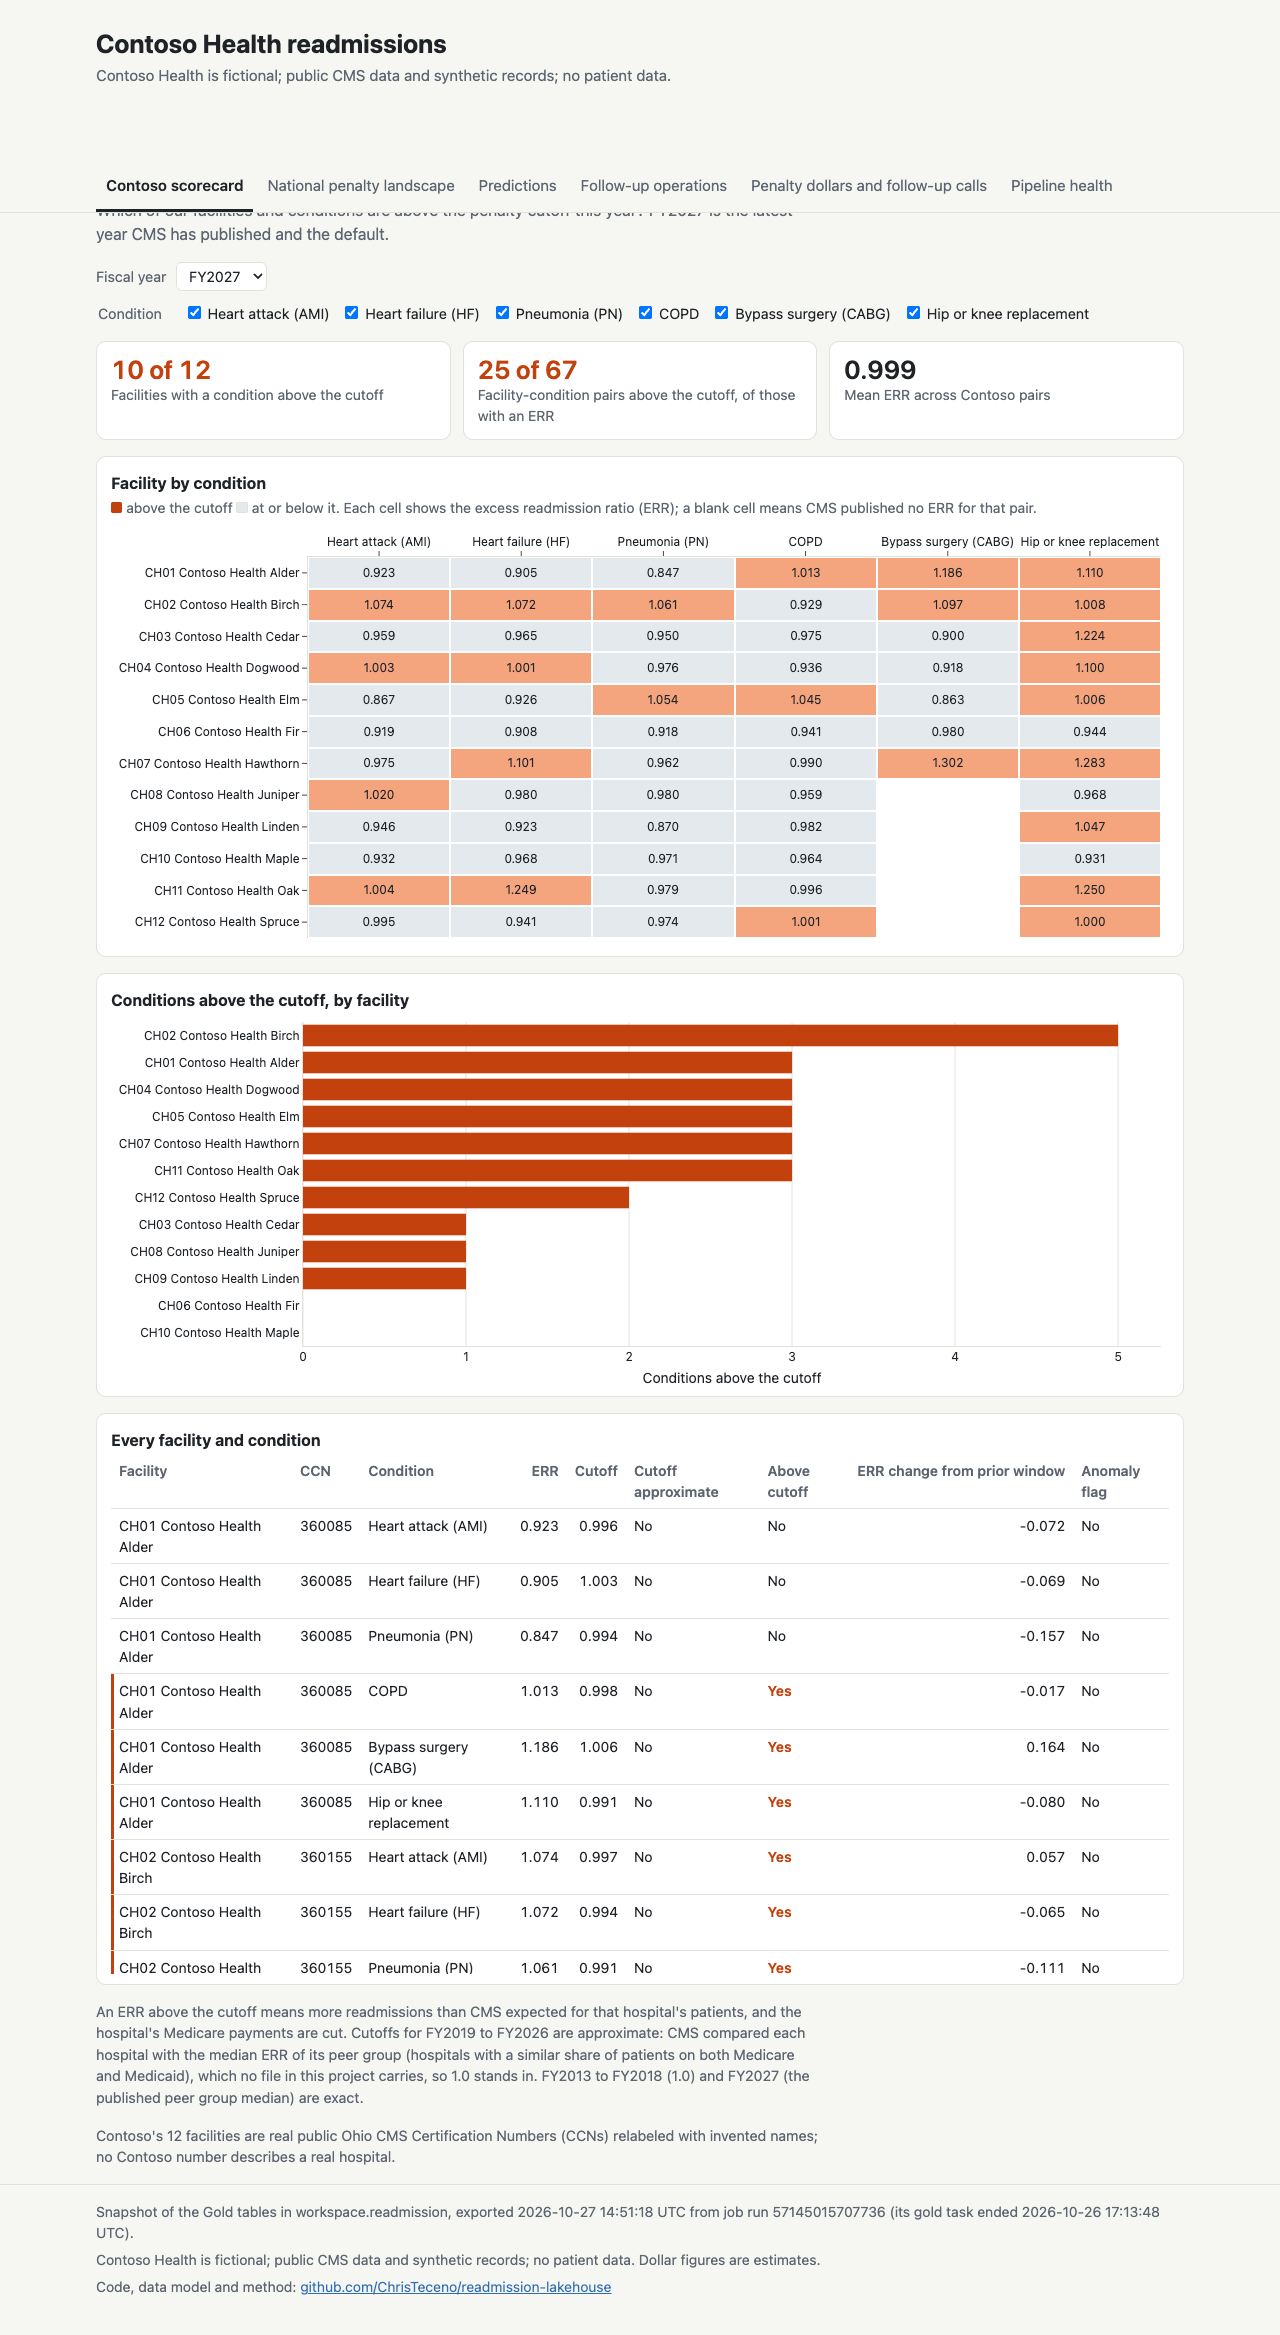
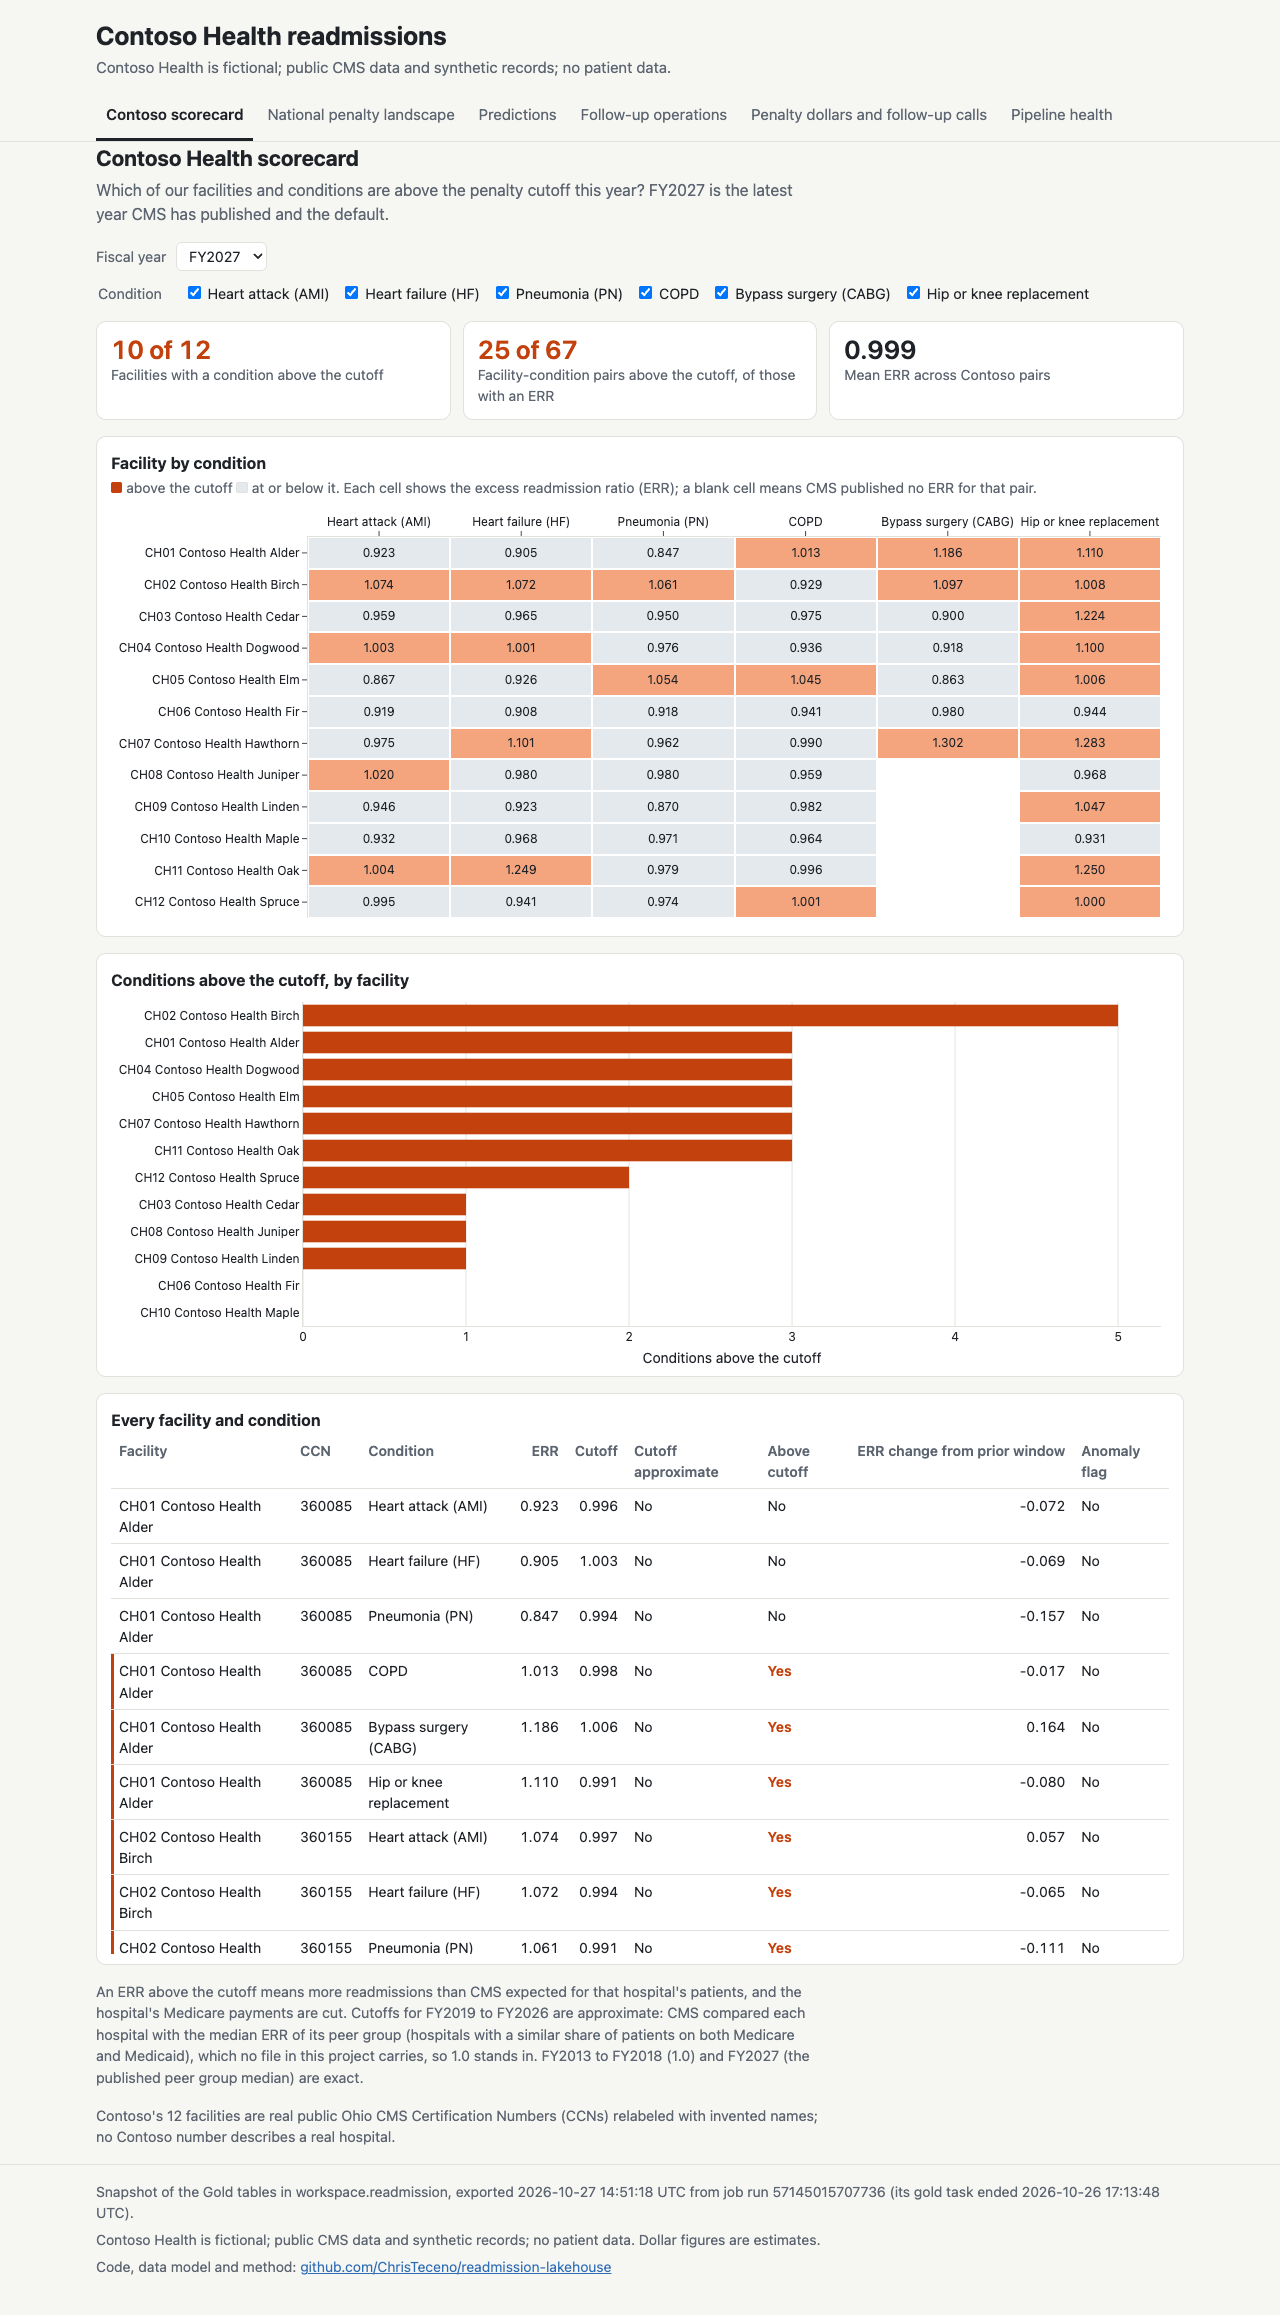
Static dashboard: keep the sticky tabs off the page heading, tighten the header, re-take the screenshot

diff --git a/site/dashboard/css/dashboard.css b/site/dashboard/css/dashboard.css
@@ -85,7 +85,7 @@ a {
 }
 
 header.site {
-  padding: 28px 0 8px;
+  padding: 20px 0 0;
 }
 
 header.site h1 {
@@ -106,7 +106,7 @@ nav.tabs {
   z-index: 5;
   background: var(--bg);
   border-bottom: 1px solid var(--line);
-  margin-top: 16px;
+  margin-top: 12px;
 }
 
 nav.tabs .wrap {
@@ -136,7 +136,12 @@ nav.tabs button[aria-selected="true"] {
 }
 
 main {
-  padding: 20px 0 8px;
+  padding: 16px 0 8px;
+}
+
+/* A #page link scrolls its section to the top; the margin keeps it below the sticky tabs. */
+section.page {
+  scroll-margin-top: 64px;
 }
 
 section.page[hidden] {
